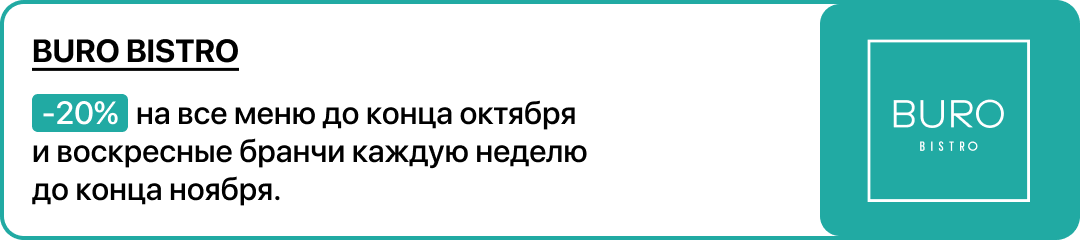
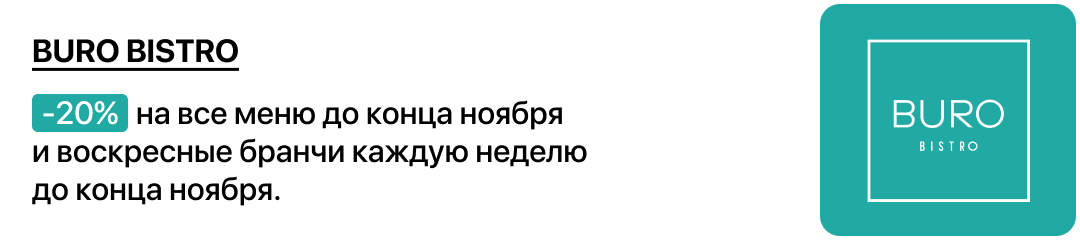
change veb-center-25

Changed region(s): [[0.0, 0.0, 1.0, 1.0], [0.4278, 0.4083, 0.55, 0.5542]]

diff --git a/veb-center-25/10 выгодных предложений для резидентов.html b/veb-center-25/10 выгодных предложений для резидентов.html
@@ -135,7 +135,7 @@
                             </tr>
                             <tr>
                                 <td align="left" style="font-size:0px;word-break:break-word;padding:0 30px;">
-                                    <div style="font-family:SF Pro Display, Arial;font-size:16px;font-weight:500;line-height:19.09px;text-align:left;color:#000000;">🍁Осень в&nbsp;ВЭБ Центре обещает быть насыщенной: не&nbsp;только на&nbsp;мероприятия, но и&nbsp;на&nbsp;сезонные предложения для резидентов.</div>
+                                    <div style="font-family:SF Pro Display, Arial;font-size:16px;font-weight:500;line-height:19.09px;text-align:left;color:#000000;">🍁Осень в&nbsp;ВЭБ Центре получается насыщенной: не&nbsp;только на&nbsp;мероприятия, но и&nbsp;на&nbsp;сезонные предложения для резидентов.</div>
                                 </td>
                             </tr>
                             <tr>
@@ -151,21 +151,6 @@
                                             <td>
                                                 <a href="https://burobistro.ru/" target="_blank">
                                                     <img alt="BURO BISTRO. -20% на все меню до конца октября и воскресные бранчи каждую неделюдо конца ноября." height="auto" src="https://cp.unisender.com/ru/user_file?resource=images&user_id=5608985&name=vc-25-content-img-1.png" style="border:0;display:block;outline:none;text-decoration:none;height:auto;max-width:540px;width:100%;font-size:13px;" width="540" />
-                                                </a>
-                                            </td>
-                                        </tr>
-                                        </tbody>
-                                    </table>
-                                </td>
-                            </tr>
-                            <tr>
-                                <td align="center" style="font-size:0px;word-break:break-word;padding-bottom: 12px;">
-                                    <table border="0" cellpadding="0" cellspacing="0" role="presentation" style="border-collapse:collapse;border-spacing:0px;">
-                                        <tbody>
-                                        <tr>
-                                            <td>
-                                                <a href="https://britzo.ru/" target="_blank">
-                                                    <img alt="ETRO Home. Подарки и повышенный кэшбэк на все покупки в клиентский день — 6 ноября." height="auto" src="https://cp.unisender.com/ru/user_file?resource=images&user_id=5608985&name=vc-25-content-img-2.png" style="border:0;display:block;outline:none;text-decoration:none;height:auto;max-width:540px;width:100%;font-size:13px;" width="540" />
                                                 </a>
                                             </td>
                                         </tr>
@@ -196,21 +181,6 @@
                                             <td>
                                                 <a href="https://www.coral.ru/" target="_blank">
                                                     <img alt="Coral Travel. -3% на путешествия до конца ноября по промокоду ПУТЕШЕСТВИЕ." height="auto" src="https://cp.unisender.com/ru/user_file?resource=images&user_id=5608985&name=vc-25-content-img-4.png" style="border:0;display:block;outline:none;text-decoration:none;height:auto;max-width:540px;width:100%;font-size:13px;" width="540" />
-                                                </a>
-                                            </td>
-                                        </tr>
-                                        </tbody>
-                                    </table>
-                                </td>
-                            </tr>
-                            <tr>
-                                <td align="center" style="font-size:0px;word-break:break-word;padding-bottom: 12px;">
-                                    <table border="0" cellpadding="0" cellspacing="0" role="presentation" style="border-collapse:collapse;border-spacing:0px;">
-                                        <tbody>
-                                        <tr>
-                                            <td>
-                                                <a href="https://crispin.ru/" target="_blank">
-                                                    <img alt="Crispin. -20% на все виды услуг до 10 ноября." height="auto" src="https://cp.unisender.com/ru/user_file?resource=images&user_id=5608985&name=vc-25-content-img-5.png" style="border:0;display:block;outline:none;text-decoration:none;height:auto;max-width:540px;width:100%;font-size:13px;" width="540" />
                                                 </a>
                                             </td>
                                         </tr>
@@ -279,28 +249,13 @@
                                 </td>
                             </tr>
                             <tr>
-                                <td align="center" style="font-size:0px;word-break:break-word;padding-bottom: 12px;">
+                                <td align="center" style="font-size:0px;word-break:break-word;padding-bottom: 24px;">
                                     <table border="0" cellpadding="0" cellspacing="0" role="presentation" style="border-collapse:collapse;border-spacing:0px;">
                                         <tbody>
                                         <tr>
                                             <td>
                                                 <a href="https://app.loona.ai/3755/create?source=veb7&tag=link" target="_blank">
                                                     <img alt="316 Watch. Приветственный бонус в размере 7000 рублей, доступный уже при первой покупке. Бонус активируется при регистрации." height="auto" src="https://cp.unisender.com/ru/user_file?resource=images&user_id=5608985&name=vc-25-content-img-10.png" style="border:0;display:block;outline:none;text-decoration:none;height:auto;max-width:540px;width:100%;font-size:13px;" width="540" />
-                                                </a>
-                                            </td>
-                                        </tr>
-                                        </tbody>
-                                    </table>
-                                </td>
-                            </tr>
-                            <tr>
-                                <td align="center" style="font-size:0px;word-break:break-word;padding-bottom:24px;">
-                                    <table border="0" cellpadding="0" cellspacing="0" role="presentation" style="border-collapse:collapse;border-spacing:0px;">
-                                        <tbody>
-                                        <tr>
-                                            <td>
-                                                <a href="https://wellcure.ru/restoran-okeanicheskoj-kuxni-okinawa-v-wellcure-barrikadnaya" target="_blank">
-                                                    <img alt="Okinawa by Bluefin. -30% на все меню до 10 ноября." height="auto" src="https://cp.unisender.com/ru/user_file?resource=images&user_id=5608985&name=vc-25-content-img-11.png" style="border:0;display:block;outline:none;text-decoration:none;height:auto;max-width:540px;width:100%;font-size:13px;" width="540" />
                                                 </a>
                                             </td>
                                         </tr>
